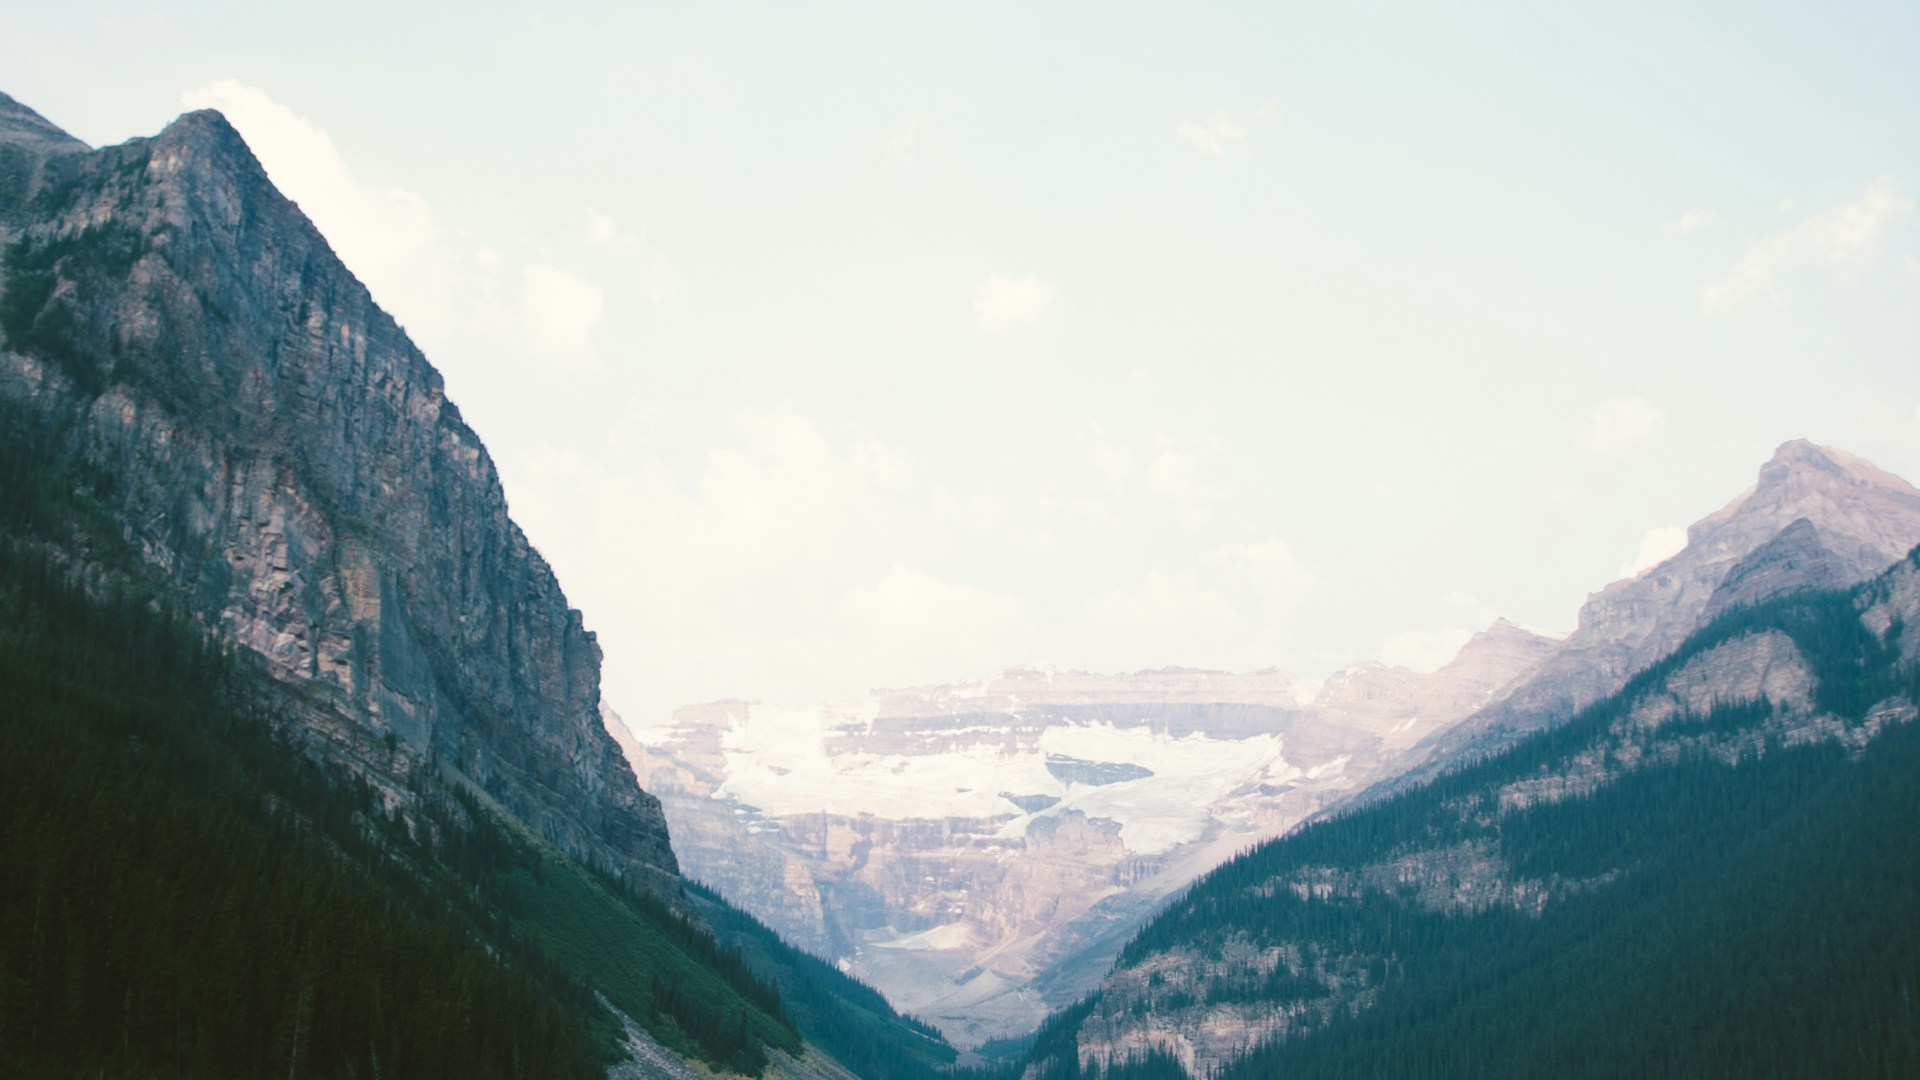
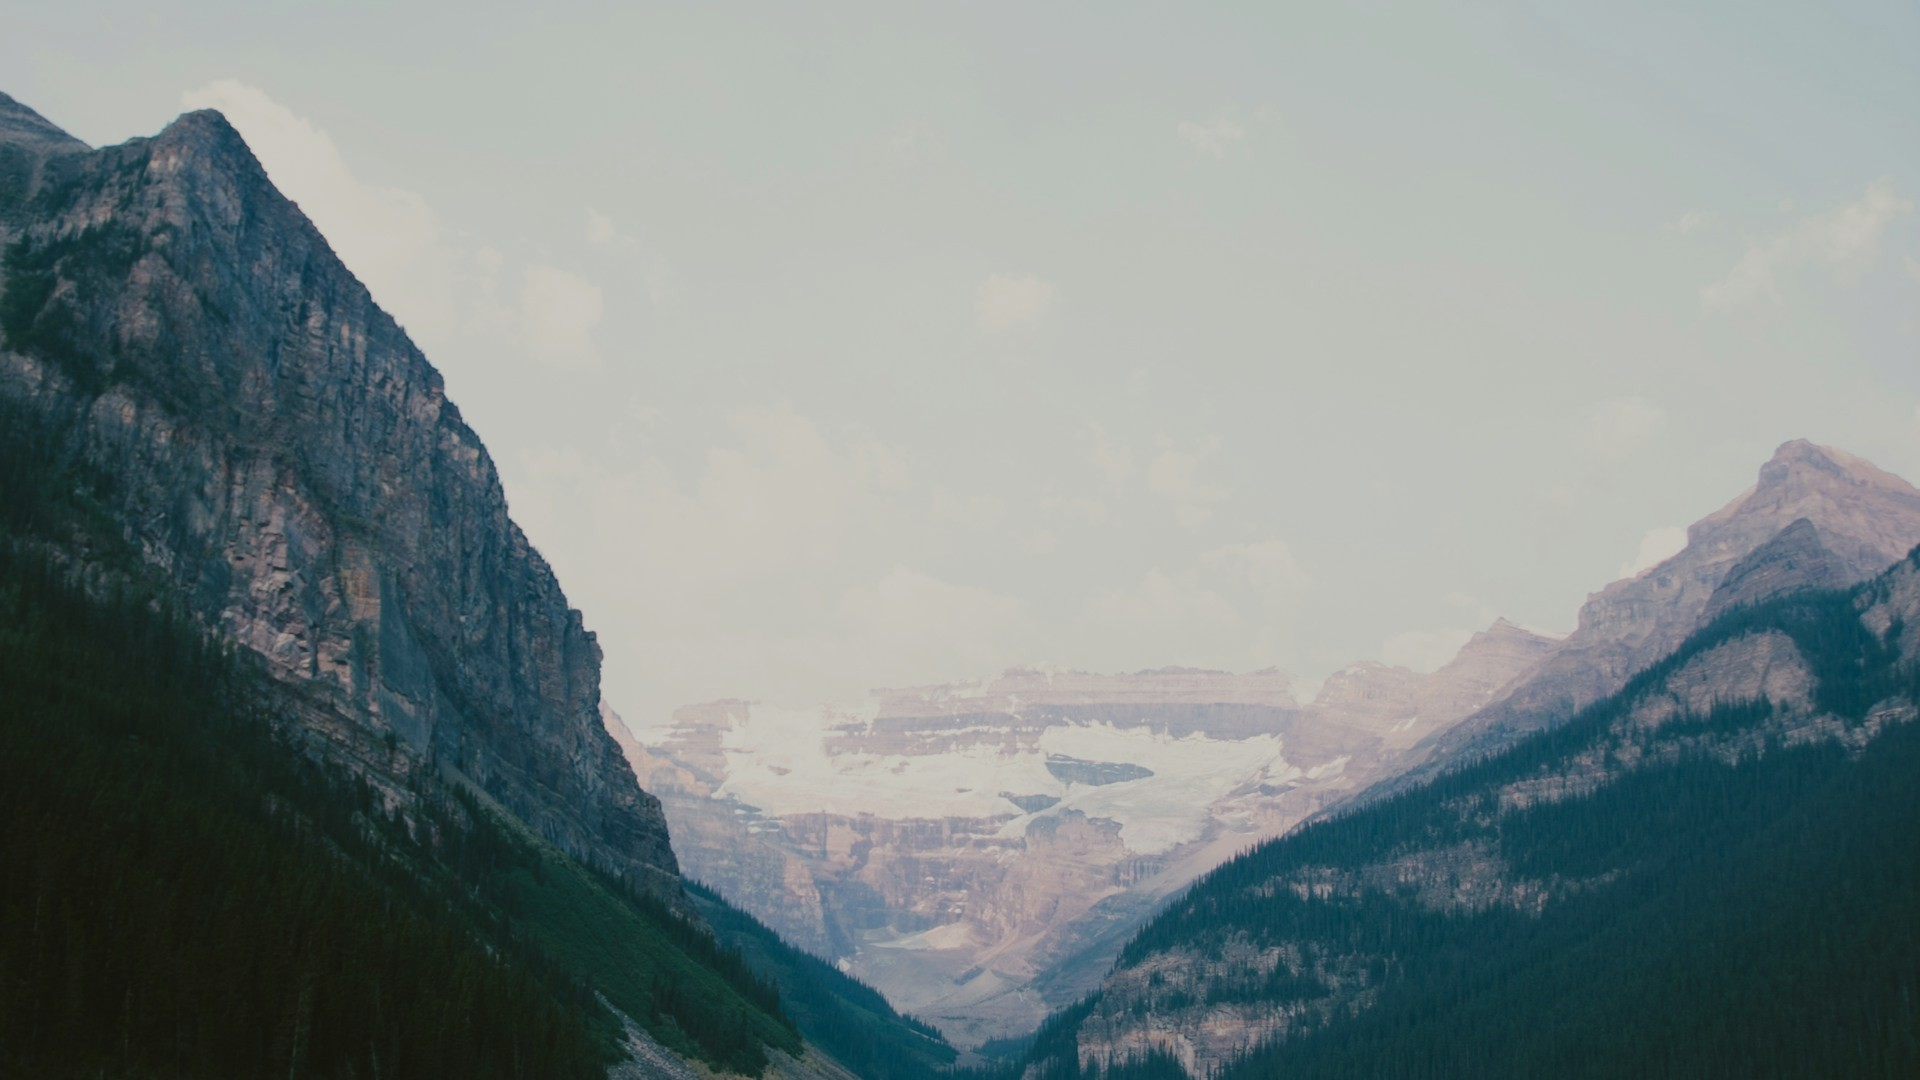
v1.2.1：换掉过曝壁纸，壁纸层按亮度自适应压暗
- nature-09（罂粟花田，平均亮度 210）换成林间栈桥（48），原图天空占半幅，压暗只会发灰
- nature-08 / zen-06 / zen-10 压暗到 131 左右，全组亮度回落到 7~143
- 壁纸层采样画面平均亮度，越白遮罩越重（1.5 秒过渡），自选亮照片也不会让玻璃面板消失
- 官网截图与哈希同步到 v1.2.1

diff --git a/app/src/main/java/app/xingchuan/tv/ui/Wallpaper.kt b/app/src/main/java/app/xingchuan/tv/ui/Wallpaper.kt
@@ -11,6 +11,7 @@ import android.view.Surface
 import android.widget.Toast
 import android.view.TextureView
 import androidx.compose.animation.Crossfade
+import androidx.compose.animation.core.animateFloatAsState
 import androidx.compose.animation.core.tween
 import androidx.compose.foundation.Image
 import androidx.compose.foundation.background
@@ -20,6 +21,7 @@ import androidx.compose.runtime.Composable
 import androidx.compose.runtime.DisposableEffect
 import androidx.compose.runtime.LaunchedEffect
 import androidx.compose.runtime.getValue
+import androidx.compose.runtime.mutableFloatStateOf
 import androidx.compose.runtime.mutableIntStateOf
 import androidx.compose.runtime.mutableStateOf
 import androidx.compose.runtime.remember
@@ -56,12 +58,22 @@ fun WallpaperLayer(
     soft: Boolean = false,
     modifier: Modifier = Modifier,
 ) {
+    // 当前壁纸的平均亮度（0..1）。玻璃面板是白色半透明的，压在纯白壁纸上会整块消失，
+    // 所以遮罩按亮度自适应：越白压得越狠。图片和视频走真实采样，渐变走默认值。
+    var luma by remember(spec, soft) { mutableFloatStateOf(0.55f) }
+    // 换图时遮罩跟着慢慢过渡，避免亮度突变带来的一下子压暗
+    val boost by animateFloatAsState(
+        targetValue = ((luma - 0.55f) / 0.40f).coerceIn(0f, 1f),
+        animationSpec = tween(GROUP_FADE_MS),
+        label = "scrim",
+    )
+
     Box(modifier.fillMaxSize()) {
         when (spec) {
             is WallpaperSpec.Preset -> PresetWallpaper(spec.id)
-            is WallpaperSpec.Group -> GroupWallpaper(spec.id, soft)
-            is WallpaperSpec.Picture -> PictureWallpaper(Uri.parse(spec.uri), soft)
-            is WallpaperSpec.Video -> VideoWallpaper(Uri.parse(spec.uri), soft)
+            is WallpaperSpec.Group -> GroupWallpaper(spec.id, soft) { luma = it }
+            is WallpaperSpec.Picture -> PictureWallpaper(Uri.parse(spec.uri), soft) { luma = it }
+            is WallpaperSpec.Video -> VideoWallpaper(Uri.parse(spec.uri), soft) { luma = it }
         }
         // 统一压暗 + 上下更暗，保证任何壁纸上文字都可读；中间层保持轻薄，风光才通透
         Box(
@@ -70,14 +82,29 @@ fun WallpaperLayer(
                 .background(
                     Brush.verticalGradient(
                         listOf(
-                            Color(0x70040A14),
-                            Color(0x38040A14),
-                            Color(0x9E040A14),
+                            Color(0x70040A14).copy(alpha = 0.44f + 0.12f * boost),
+                            Color(0x38040A14).copy(alpha = 0.22f + 0.26f * boost),
+                            Color(0x9E040A14).copy(alpha = 0.62f + 0.10f * boost),
                         )
                     )
                 )
         )
     }
+}
+
+/** 取平均亮度，给自适应遮罩用。先缩到 16×9 再算，一次几百个像素，可以忽略成本。 */
+private fun luminanceOf(bmp: Bitmap): Float {
+    val w = 16
+    val h = 9
+    val small = Bitmap.createScaledBitmap(bmp, w, h, false)
+    val px = IntArray(w * h)
+    small.getPixels(px, 0, w, 0, 0, w, h)
+    if (small !== bmp) small.recycle()
+    var sum = 0f
+    for (c in px) {
+        sum += 0.299f * ((c shr 16) and 0xFF) + 0.587f * ((c shr 8) and 0xFF) + 0.114f * (c and 0xFF)
+    }
+    return (sum / (px.size * 255f)).coerceIn(0f, 1f)
 }
 
 @Composable
@@ -108,17 +135,23 @@ private fun PresetWallpaper(id: String) {
 private enum class LoadState { Pending, Ok, Failed }
 
 @Composable
-private fun PictureWallpaper(uri: Uri, soft: Boolean) {
+private fun PictureWallpaper(uri: Uri, soft: Boolean, onLuma: (Float) -> Unit) {
     val ctx = LocalContext.current
     var bitmap by remember(uri) { mutableStateOf<Bitmap?>(null) }
     var state by remember(uri) { mutableStateOf(LoadState.Pending) }
 
     // 柔焦模式下按更小的尺寸解码，显示时再拉大，得到柔化背景（API 31 以下的 blur 是空实现）
     LaunchedEffect(uri, soft) {
-        bitmap = withContext(Dispatchers.IO) {
+        val bmp = withContext(Dispatchers.IO) {
             decodeScaled(ctx, uri, if (soft) 640 else 1920)
         }
-        state = if (bitmap == null) LoadState.Failed else LoadState.Ok
+        bitmap = bmp
+        if (bmp != null) {
+            onLuma(luminanceOf(bmp))
+            state = LoadState.Ok
+        } else {
+            state = LoadState.Failed
+        }
     }
 
     // 用户选过的图片被删掉、或授权失效时，回退到内置壁纸而不是停在一整屏黑色上
@@ -136,7 +169,7 @@ private fun PictureWallpaper(uri: Uri, soft: Boolean) {
             modifier = Modifier.fillMaxSize(),
             contentScale = ContentScale.Crop,
         )
-        state == LoadState.Failed -> GroupWallpaper(WallpaperGroups.DefaultId, soft)
+        state == LoadState.Failed -> GroupWallpaper(WallpaperGroups.DefaultId, soft, onLuma)
         else -> Box(Modifier.fillMaxSize().background(Ink.Bg))
     }
 }
@@ -176,19 +209,25 @@ private const val GROUP_FADE_MS = 1_500
 
 private object GroupFrames {
     private val cache = object : LruCache<String, ImageBitmap>(3) {}
+    /** 每张图的平均亮度，解码时顺手算好；换图时壁纸层据此调整遮罩深浅。 */
+    private val luma = HashMap<String, Float>()
 
     private fun key(name: String, w: Int) = "$name@$w"
 
     fun peek(name: String, w: Int): ImageBitmap? = cache.get(key(name, w))
 
+    fun lumaOf(name: String): Float? = luma[name]
+
     fun load(ctx: Context, name: String, targetW: Int): ImageBitmap? {
         cache.get(key(name, targetW))?.let { return it }
         val bmp = decodeAsset(ctx, name, targetW) ?: return null
-        cache.put(key(name, targetW), bmp)
-        return bmp
+        luma[name] = luminanceOf(bmp)
+        val image = bmp.asImageBitmap()
+        cache.put(key(name, targetW), image)
+        return image
     }
 
-    private fun decodeAsset(ctx: Context, name: String, targetW: Int): ImageBitmap? = try {
+    private fun decodeAsset(ctx: Context, name: String, targetW: Int): Bitmap? = try {
         val bounds = BitmapFactory.Options().apply { inJustDecodeBounds = true }
         ctx.assets.open("wallpapers/$name").use { BitmapFactory.decodeStream(it, null, bounds) }
         // inSampleSize 只能按 2 的幂取，各组原图宽度不同（1920 / 2560）会导致柔化程度不一致；
@@ -205,14 +244,13 @@ private object GroupFrames {
             }
         }
         ctx.assets.open("wallpapers/$name").use { BitmapFactory.decodeStream(it, null, opts) }
-            ?.asImageBitmap()
     } catch (e: Exception) {
         null
     }
 }
 
 @Composable
-private fun GroupWallpaper(prefix: String, soft: Boolean) {
+private fun GroupWallpaper(prefix: String, soft: Boolean, onLuma: (Float) -> Unit) {
     val ctx = LocalContext.current
     val files = remember(prefix) {
         runCatching {
@@ -264,6 +302,8 @@ private fun GroupWallpaper(prefix: String, soft: Boolean) {
         if (bmp == null) {
             Box(Modifier.fillMaxSize().background(Ink.Bg))
         } else {
+            // 每换一张就把亮度报给壁纸层，遮罩据此加深或放松
+            LaunchedEffect(bmp) { onLuma(GroupFrames.lumaOf(files[i]) ?: 0.55f) }
             Image(
                 bitmap = bmp,
                 contentDescription = null,
@@ -281,7 +321,7 @@ private fun GroupWallpaper(prefix: String, soft: Boolean) {
  * Surface 就绪后立刻 setSurface，播放器在 prepareAsync 回调里 start，避免时序竞争。
  */
 @Composable
-private fun VideoWallpaper(uri: Uri, soft: Boolean) {
+private fun VideoWallpaper(uri: Uri, soft: Boolean, onLuma: (Float) -> Unit) {
     val ctx = LocalContext.current
     val lifecycleOwner = LocalLifecycleOwner.current
     var surfaceReady by remember(uri) { mutableStateOf(false) }
@@ -358,7 +398,7 @@ private fun VideoWallpaper(uri: Uri, soft: Boolean) {
     )
 
     when {
-        state == LoadState.Failed -> GroupWallpaper(WallpaperGroups.DefaultId, soft)
+        state == LoadState.Failed -> GroupWallpaper(WallpaperGroups.DefaultId, soft, onLuma)
         // 视频还没起来时先铺一层深色，不会闪白
         !surfaceReady -> Box(Modifier.fillMaxSize().background(Ink.Bg))
     }

diff --git a/site/index.html b/site/index.html
@@ -257,7 +257,8 @@
         <div class="no">02 — WALLPAPER</div>
         <h3>自然风光，会呼吸。</h3>
         <p>内置 40 张超清壁纸，分自然风光 / 城市夜色 / 星空银河 / 山野光影四组，<b>30 秒交叉淡入</b>，画面保持静止，像一扇缓缓变换的窗。
-          按屏幕宽度降采样加载，1080p 电视不浪费一比特内存。也可以换成你自己的图片或视频。</p>
+          按屏幕宽度降采样加载，1080p 电视不浪费一比特内存。也可以换成你自己的图片或视频。
+          壁纸层会按画面平均亮度自动加深压暗，纯白的画面也不会让玻璃面板和白色文字消失。</p>
       </div>
       <div class="card">
         <div class="no">03 — GUARD</div>
@@ -332,12 +333,12 @@
     <table style="margin-top:32px">
       <tr><th>形态</th><th>文件</th><th>适用</th></tr>
       <tr>
-        <td><b>标准版 standard</b><br><span style="font-size:12.5px">v1.2.0 · 声明 HOME</span></td>
+        <td><b>标准版 standard</b><br><span style="font-size:12.5px">v1.2.1 · 声明 HOME</span></td>
         <td><code>app-standard-release.apk</code></td>
         <td>默认选它。大多数电视可用，能被系统设为默认桌面。</td>
       </tr>
       <tr>
-        <td><b>守护版 guard</b><br><span style="font-size:12.5px">v1.2.0-guard · 不声明 HOME</span></td>
+        <td><b>守护版 guard</b><br><span style="font-size:12.5px">v1.2.1-guard · 不声明 HOME</span></td>
         <td><code>app-guard-release.apk</code></td>
         <td>固件<b>拒绝安装声明 HOME 的 APK</b> 时用（TCL/雷鸟、部分海信，以及实测中主页键被 <code>com.stv.*</code> 劫持的机型）。装上后是普通应用，靠桌面守护常驻前台。</td>
       </tr>
@@ -354,10 +355,10 @@
     <p class="hint" style="margin-top:16px">
       装之前先核对 SHA-256，确认拿到的是同一个包、没有被篡改或截断：
     </p>
-    <pre style="font-size:12px"><button class="copy">复制</button><span class="cm"># standard · v1.2.0</span>
-7550edf54da99f2817dcce52d2e44038b7bf0d9a4c4274e89fc39b5968a0c549  app-standard-release.apk
-<span class="cm"># guard · v1.2.0-guard</span>
-339f34c5ff436d4c1b47e80dc0098521912f15f821700c29c24bc3f39ae9ae15  app-guard-release.apk</pre>
+    <pre style="font-size:12px"><button class="copy">复制</button><span class="cm"># standard · v1.2.1</span>
+eacf8b4418165827dcefd62ceeaf36a87402335b74f673668188638ac362faf5  app-standard-release.apk
+<span class="cm"># guard · v1.2.1-guard</span>
+669ebb69d1faf49eb71e4fcc717f658cd019f8794a064829b54e3ed5060585a2  app-guard-release.apk</pre>
     <p class="hint">
       也可以校验签名：<code>apksigner verify --print-certs app-standard-release.apk</code>。不要用来路不明的转载包。
     </p>
@@ -519,6 +520,7 @@ adb -s 192.168.1.20:5555 pull /sdcard/xingchuan-check.png .</pre>
       <tr><td><b>开机自启</b></td><td class="pass">通过</td><td>重启电视后，开机完成直接进入星川桌面，无需手动按键（2026-11-03 用户实机确认）</td></tr>
       <tr><td><b>待机唤醒</b></td><td class="pass">通过</td><td>遥控器电源键待机约 5 秒再唤醒；<code>mResumedActivity</code> 与 <code>mCurrentFocus</code> 都是 <code>app.xingchuan.tv/.MainActivity</code>，没落回厂商桌面（2026-11-07）</td></tr>
       <tr><td><b>设置面板 / 抽屉</b></td><td class="pass">通过</td><td>15 格设置不溢出；抽屉 18 项五向键可达</td></tr>
+      <tr><td><b>玻璃可读性（v1.2.1）</b></td><td class="pass">通过</td><td>原罂粟花田壁纸平均亮度 210，玻璃面板和白字被吃掉；换成林间栈桥并把其余高亮素材压到 131~135，全组最高 143，胶囊/卡片/Dock 轮廓清晰</td></tr>
     </table>
     <p class="hint">「未测」就写未测。这份记录随每次实机验证更新。</p>
   </div>
@@ -579,7 +581,7 @@ adb -s 192.168.1.20:5555 pull /sdcard/xingchuan-check.png .</pre>
 
 <footer>
   <div class="wrap">
-    <p>星川 Star River TV · v1.2.0 · 包名 app.xingchuan.tv · Kotlin + Jetpack Compose · minSdk 21 / targetSdk 34</p>
+    <p>星川 Star River TV · v1.2.1 · 包名 app.xingchuan.tv · Kotlin + Jetpack Compose · minSdk 21 / targetSdk 34</p>
     <p>源码与版本：<a href="https://github.com/lichong152/starriver" target="_blank" rel="noopener">github.com/lichong152/starriver</a> ·
        下载：<a href="https://github.com/lichong152/starriver/releases" target="_blank" rel="noopener">Releases</a> ·
        安装手册：<a href="https://github.com/lichong152/starriver/blob/main/AGENTS.md" target="_blank" rel="noopener">AGENTS.md</a> ·

diff --git a/README.md b/README.md
@@ -31,6 +31,8 @@ standard / guard 双形态）。
 - **壁纸**：**四组内置轮播**（自然风光 / 城市夜色 / 星空银河 / 山野光影，每组 10 张共 40 张，30 秒交叉淡入换一张，画面保持静止）
   + 5 套内置渐变 + 本地图片 + 本地视频（静音循环）。图片按 `assets/wallpapers/` 文件名排序播放，
   丢进自己的 jpg 就会自动加入轮播，不用改代码（来源与版权见 [CREDITS.md](CREDITS.md)）
+- **亮度自适应遮罩**：玻璃面板是白色半透明的，压在很白的壁纸上会"看不见"。壁纸层会采样当前画面的
+  平均亮度，越白遮罩压得越重（换图时 1.5 秒过渡），所以自己换成亮照片也不会糊成一片
 - **空闲省电**：不常驻后台服务、不申请多余权限，只做桌面该做的事
 - **安装即变**：装/卸应用后自动重扫，不需要重启桌面
 - **双形态**：`standard` 声明 HOME 作为系统桌面；`guard` 不声明 HOME，供 TCL / 海信等
@@ -107,6 +109,8 @@ adb shell input keyevent KEYCODE_HOME
 | Dock 内排序（v1.2.0） | 通过（对「当贝市场」执行「向右移一位」，回主界面后它排到了「当贝音乐」之后，顺序持久化） |
 | 柔焦背景（v1.2.0） | 通过（截图 4 倍放大核对：建筑边缘发虚、前景文字锐利；设置里「柔焦·开/关」可切回原图） |
 | 设置三行布局（v1.2.0） | 通过（15 格 5+5+5 等分，无截断，上下跨行导航正常） |
+| 过曝壁纸（v1.2.1） | 通过（原 `nature-09` 罂粟花田平均亮度 210，玻璃面板与白字被吃掉；换成林间栈桥 48，另三张压到 131~135；复测轮播多张，胶囊、卡片、Dock 轮廓均清晰） |
+| 亮度自适应遮罩（v1.2.1） | 代码已加（按画面平均亮度加深遮罩，1.5 秒过渡）；**未用纯白自选照片实测**，内置素材最高 143，属遮罩轻微加深的区间 |
 | 待机唤醒（v1.2.0） | 通过（遥控器电源键待机后唤醒，`mResumedActivity` 与 `mCurrentFocus` 均为 `app.xingchuan.tv/.MainActivity`） |
 
 这台电视的固件（`com.stv.*`）会用**显式组件**启动自家桌面，绕过 HOME 解析，

diff --git a/CREDITS.md b/CREDITS.md
@@ -14,6 +14,11 @@
 分组规则：文件名前缀即分组 id，桌面按前缀过滤、组内按文件名排序播放。
 设置面板里可切换四组，每 30 秒换一张。
 
+**亮度记录（v1.2.1）**：玻璃面板是白色半透明，压在过曝的壁纸上会整块消失。全部素材按平均亮度
+（0–255）复核过一遍，凡超过 132 的一律压暗到 132 左右：`nature-08`（176→131）、`zen-06`（165→131）、
+`zen-10`（151→131）；`nature-09` 原图 210 且天空占了一半篇幅，压暗只会发灰，直接换成林间栈桥（48）。
+现在全组最高 143，最低 7。
+
 ## 自然风光 `nature-`
 
 | 文件 | 画面 | 照片 ID（`images.unsplash.com`） |
@@ -26,7 +31,7 @@
 | nature-06 | 布莱埃斯湖，多洛米蒂 | `photo-1501785888041-af3ef285b470` |
 | nature-07 | 湖畔木栈道 | `photo-1439066615861-d1af74d74000` |
 | nature-08 | 雪山与森林 | `photo-1454496522488-7a8e488e8606` |
-| nature-09 | 罂粟花田 | `photo-1465146344425-f00d5f5c8f07` |
+| nature-09 | 林间栈桥（v1.2.1 换入，原罂粟花田过曝已弃用） | `photo-1447752875215-b2761acb3c5d` |
 | nature-10 | 湖面落日 | `photo-1475924156734-496f6cac6ec1` |
 
 ## 城市夜色 `city-`
